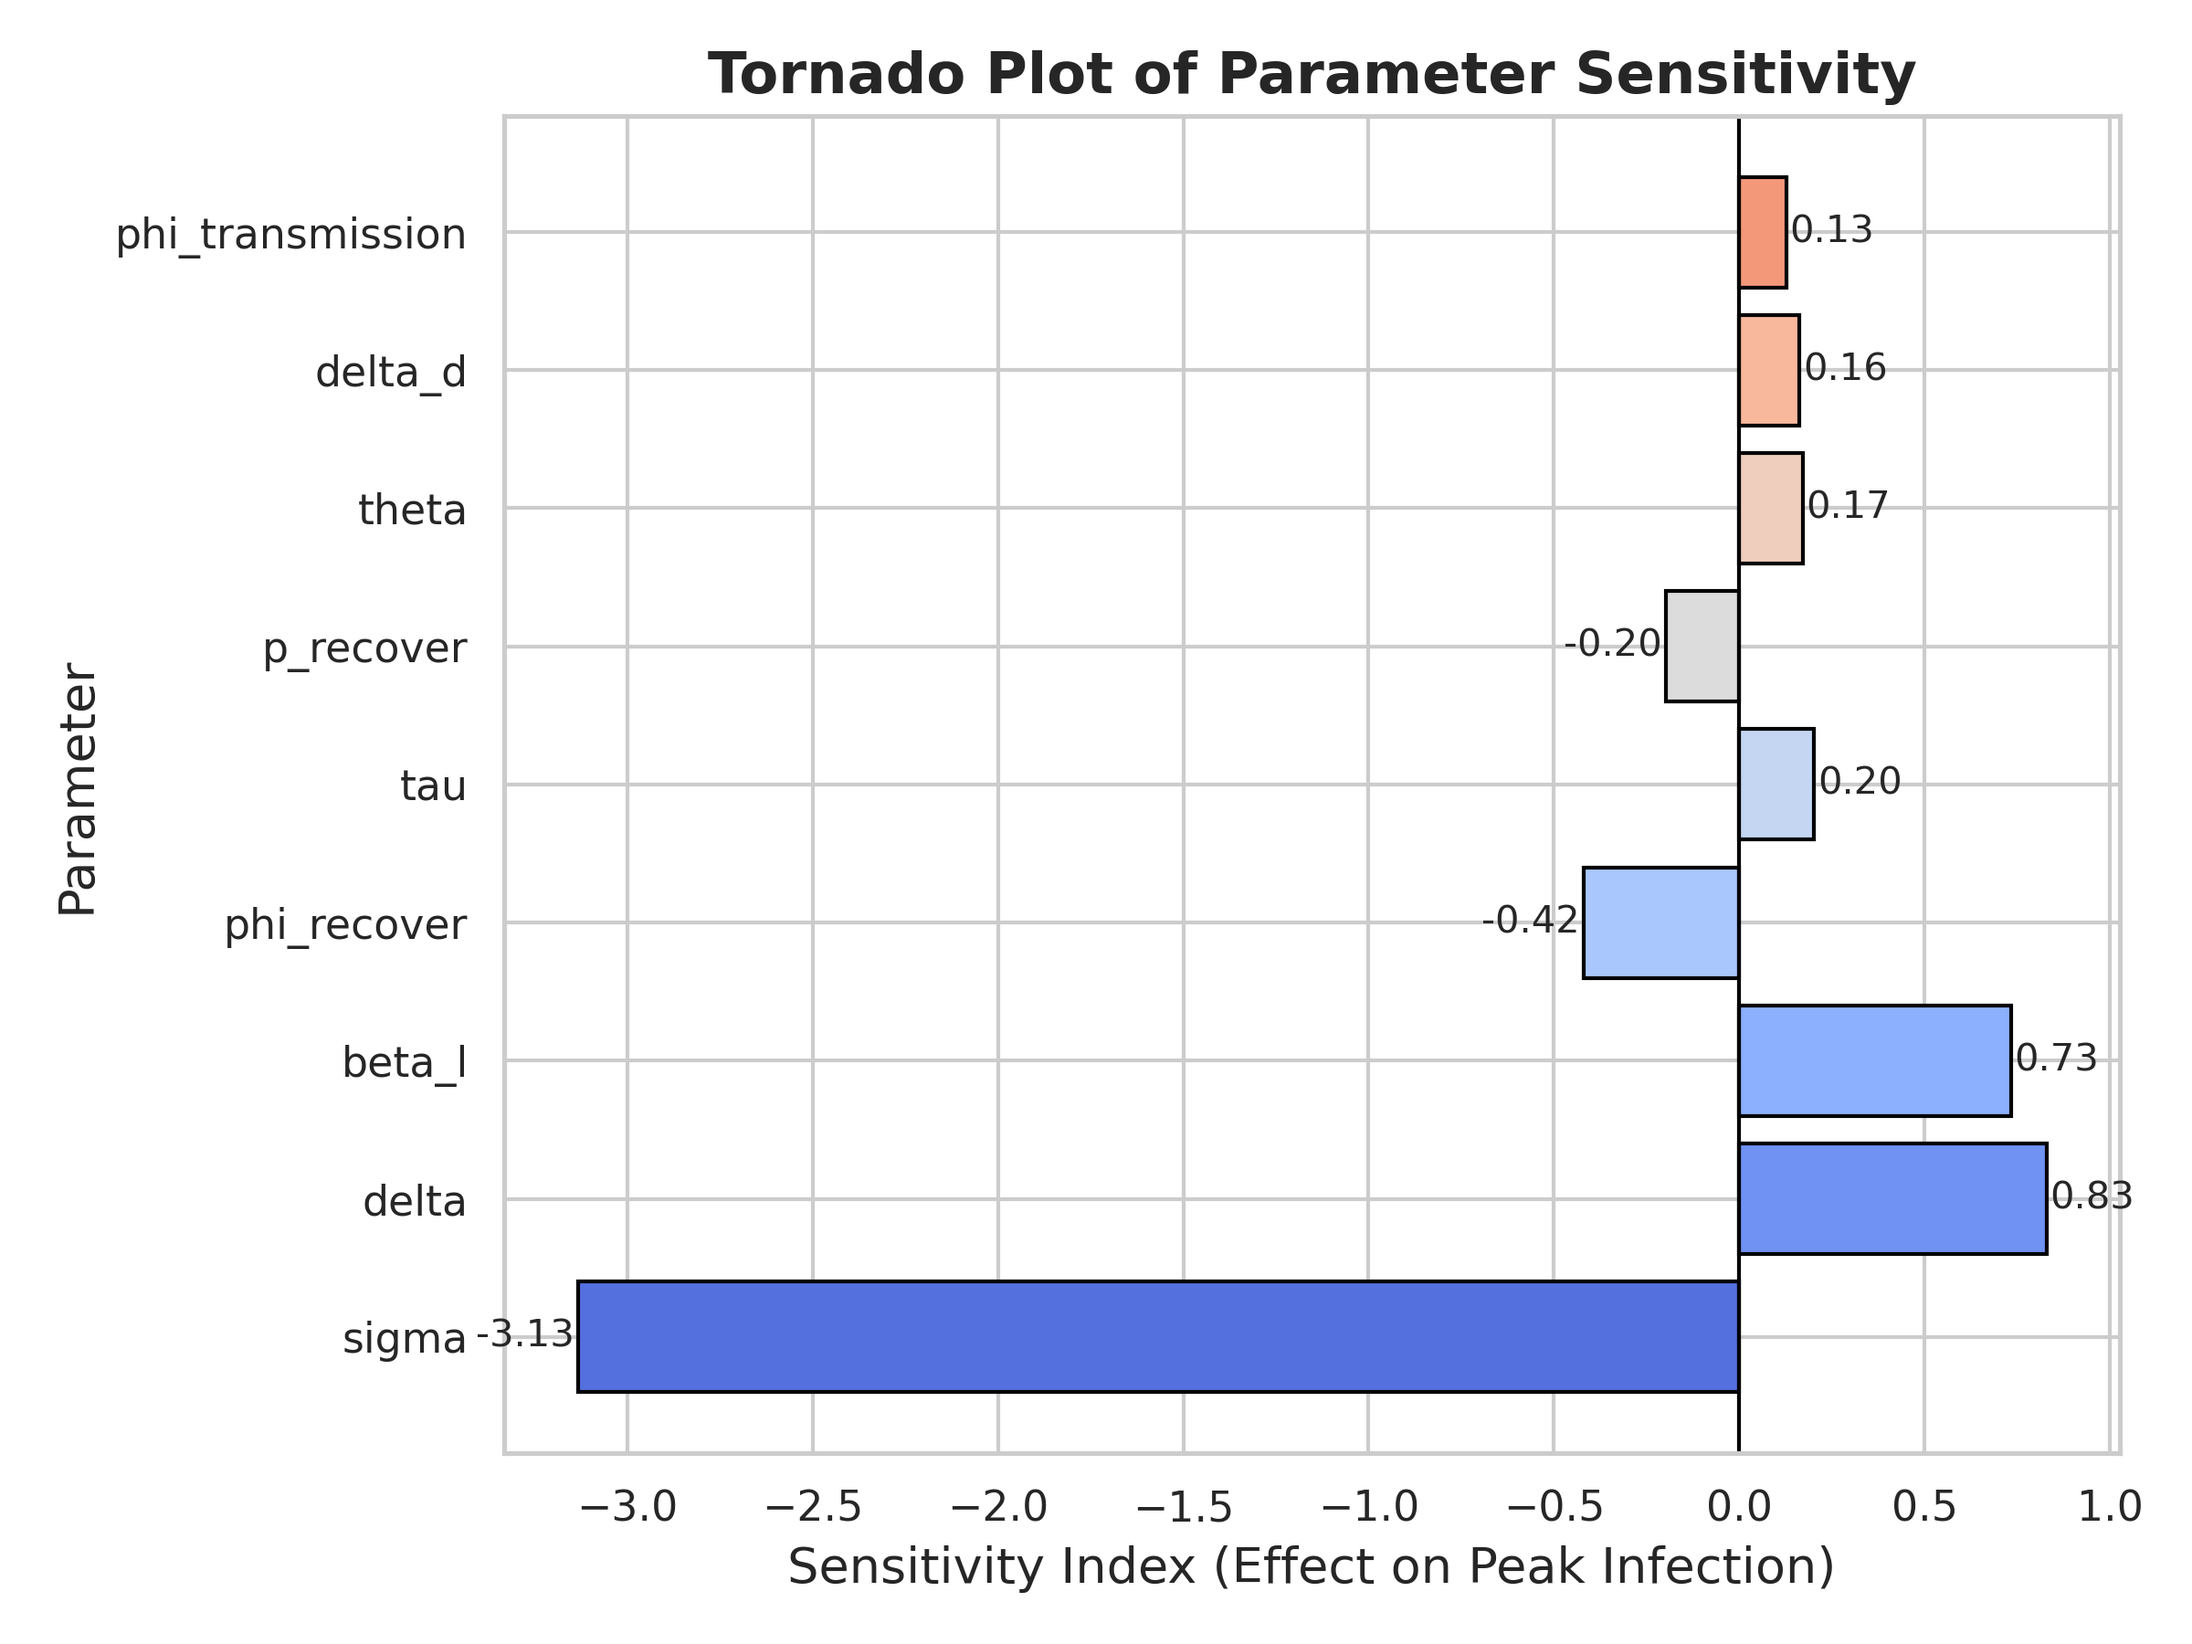
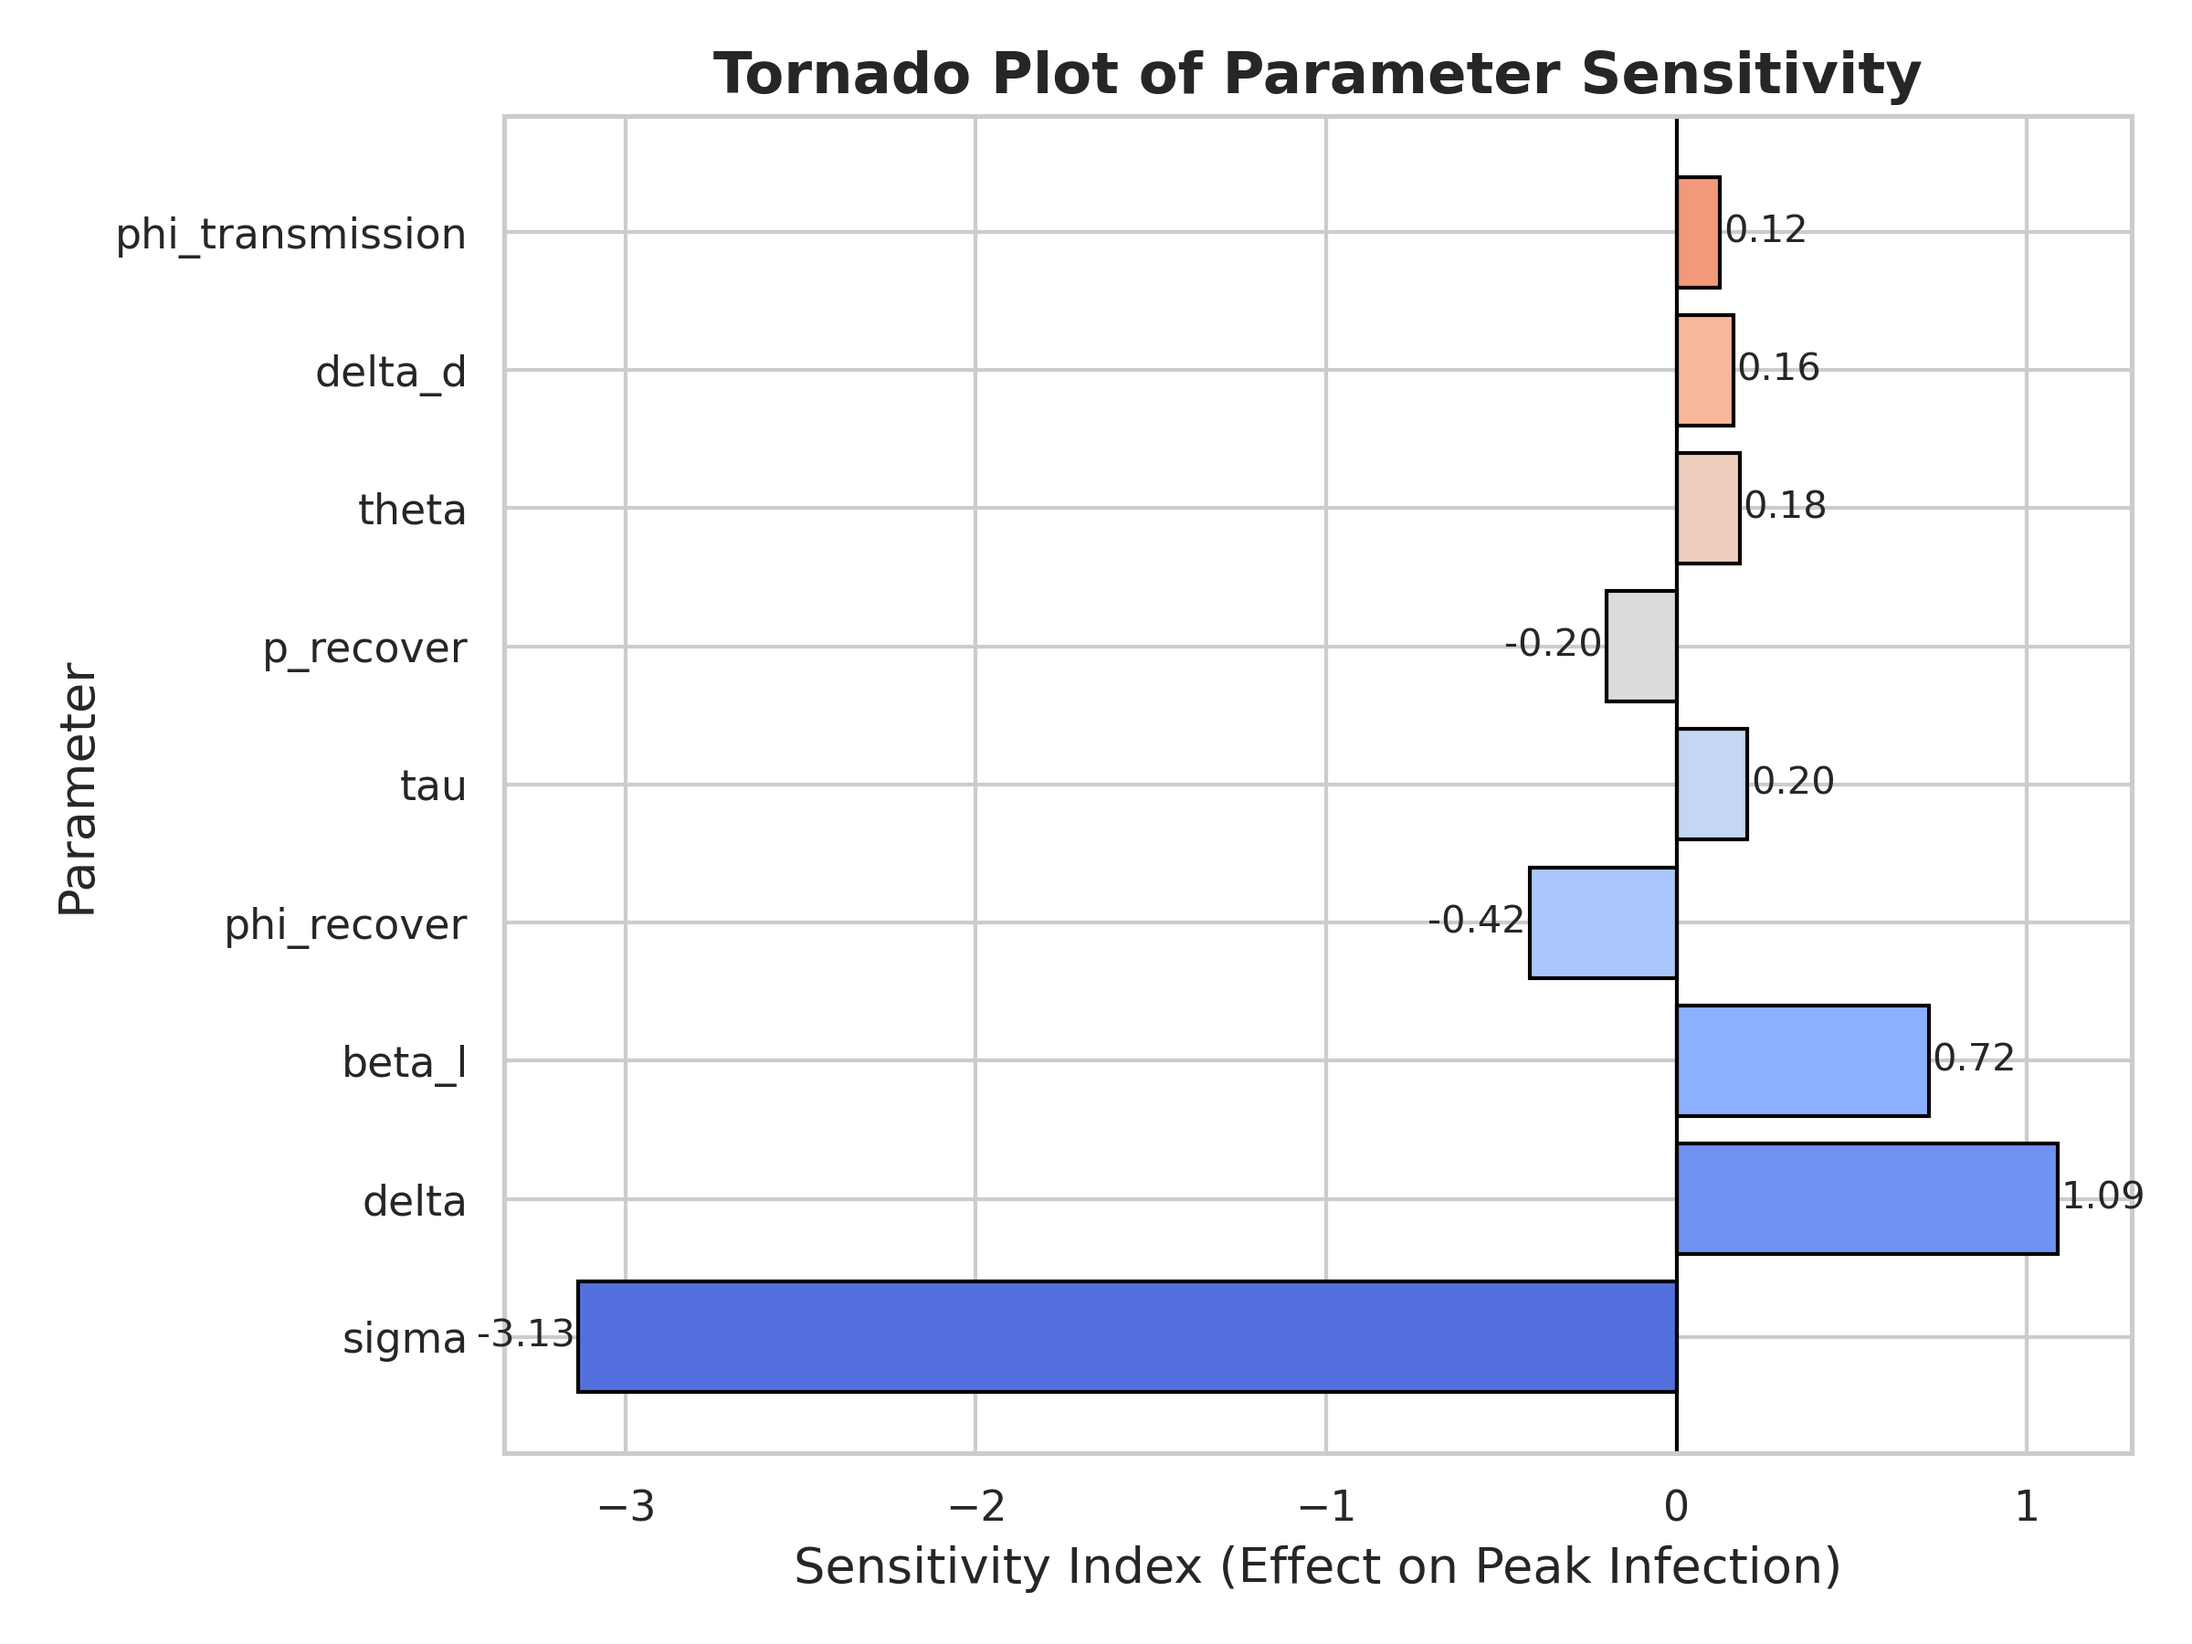
Refactor recovery calculations in First_draft.py for improved accuracy; update parameters in Paramenter_sensitivity_analysis_m.py; add new Model_deeper_dive.py; update sensitivity tornado plot and first draft model images.

diff --git a/Scripts/MG_modelling/Paramenter_sensitivity_analysis_m.py b/Scripts/MG_modelling/Paramenter_sensitivity_analysis_m.py
@@ -25,17 +25,17 @@ pop_values = pop_values / np.sum(pop_values)
 
 #%% Parameters
 # Define model parameters
-theta = 0.6  # Proportion of exposed who will eventually take the drug
-p_recover = 1.0  # Drug effect on recovery
+theta = 0.3  # Proportion of exposed who will eventually take the drug
+p_recover = 0.5  # Drug effect on recovery
 phi_transmission = 1.3  # High virulence transmission multiplier
 phi_recover = 0.75  # High virulence recovery reduction
-sigma = 1/7  # Recovery rate
+sigma = 1/10  # Recovery rate
 delta = 1/90  # Immunity loss rate
-tau = 1/5  # Progression from exposed to infectious
+tau = 1/3  # Progression from exposed to infectious
 delta_d = 1/3  # Delay rate for starting drug (~3 days)
 birth_rate = 0.0
 death_rate = 0.0
-beta_l = 0.1
+beta_l = 0.25
 
 
 # Pack parameters into a tuple
@@ -74,8 +74,8 @@ def model(y, t, params):
     dIdldt = delta_d * theta * Indl - p_recover * sigma * Idl - death_rate * Idl
 
     # Recovery compartments
-    dRhdt = phi_recover * sigma * (p_recover * Idh + Indh * (1 - theta)) - delta * Rh - death_rate * Rh
-    dRldt = sigma * (p_recover * Idl + Indl * (1 - theta)) - delta * Rl - death_rate * Rl
+    dRhdt = phi_recover * sigma * (p_recover * Idh + Indh) - delta * Rh - death_rate * Rh
+    dRldt = sigma * (p_recover * Idl + Indl) - delta * Rl - death_rate * Rl
 
     return dSdt, dEhdt, dIndhdt, dIdhdt, dRhdt, dEldt, dIndldt, dIdldt, dRldt
 
@@ -120,17 +120,17 @@ def run_model(param_dict):
 
 # Baseline parameters as dictionary
 baseline = {
-    'beta_l': 0.1,
+    'beta_l': 0.25,
     'birth_rate': 0.0,
     'death_rate': 0.0,
     'delta': 1/90,
     'delta_d': 1/3,
-    'p_recover': 1,
+    'p_recover': 0.5,
     'phi_recover': 0.75,
     'phi_transmission': 1.5,
-    'sigma': 1/7,
-    'tau': 1/5,
-    'theta': 0.5
+    'sigma': 1/10,
+    'tau': 1/3,
+    'theta': 0.3
 }
 
 def sensitivity_analysis(param_dict, variation=0.1):
@@ -187,4 +187,7 @@ for i, (idx, val) in enumerate(zip(sens_sorted.index, sens_sorted['sensitivity_i
              ha='left' if val >= 0 else 'right', fontsize=10)
 
 plt.tight_layout()
+plt.savefig('sensitivity_tornado_plot.png', dpi=300)
 plt.show()
+
+# %%

diff --git a/Scripts/MG_modelling/First_draft.py b/Scripts/MG_modelling/First_draft.py
@@ -71,8 +71,8 @@ def model(y, t, params):
     dIdldt = delta_d * theta * Indl - p_recover * sigma * Idl - death_rate * Idl
 
     # Recovery compartments
-    dRhdt = phi_recover * sigma * (p_recover * Idh + Indh * (1 - theta)) - delta * Rh - death_rate * Rh
-    dRldt = sigma * (p_recover * Idl + Indl * (1 - theta)) - delta * Rl - death_rate * Rl
+    dRhdt = phi_recover * sigma * (p_recover * Idh + Indh) - delta * Rh - death_rate * Rh
+    dRldt = sigma * (p_recover * Idl + Indl) - delta * Rl - death_rate * Rl
 
     return dSdt, dEhdt, dIndhdt, dIdhdt, dRhdt, dEldt, dIndldt, dIdldt, dRldt
 
